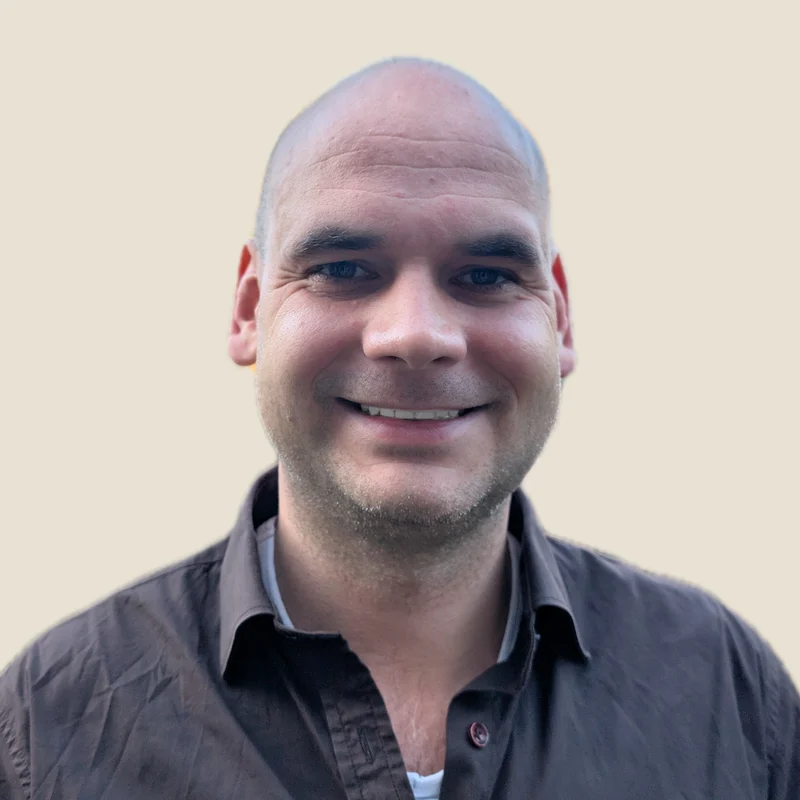
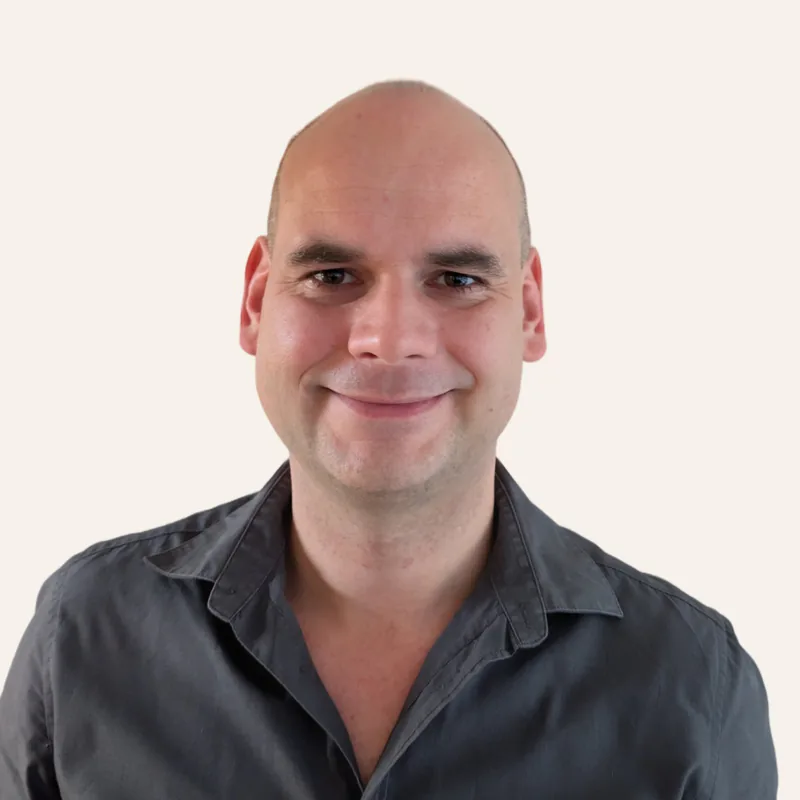
Change profilephoto

diff --git a/sites/solvalutions_com/views/approach.html b/sites/solvalutions_com/views/approach.html
@@ -74,12 +74,9 @@
 
                 <a href="https://robmeijerink.nl" target="_blank" rel="noopener" title="Rob Meijerink - Lead Engineer of Solvalutions" class="group inline-flex items-center gap-4 p-3 pr-6 rounded-xl border border-line transition-colors duration-300 hover:border-ice-dim hover:bg-ice/5">
                     <span class="block w-12 h-12 rounded-full bg-ink-raised overflow-hidden border border-line-strong shrink-0 transition-colors duration-300 group-hover:border-ice">
-                        <picture class="block w-full h-full">
-                            <source srcset="/assets/img/foto-rob-meijerink-solvalutions-avatar-320.webp" type="image/webp">
-                            <img src="/assets/img/foto-rob-meijerink-solvalutions-avatar-320.jpg"
+                        <img src="/assets/img/rob-meijerink-profielfoto.webp" width="192" height="192" loading="lazy" decoding="async"
                             alt="Rob Meijerink - Engineer and Developer of Solvalutions"
-                            class="w-full h-full object-cover -scale-x-100">
-                        </picture>
+                            class="w-full h-full object-cover">
                     </span>
                     <span class="block">
                         <span class="block text-white font-semibold text-sm transition-colors duration-300 group-hover:text-ice">Rob Meijerink</span>

diff --git a/sites/solvalutions_nl/setup.go b/sites/solvalutions_nl/setup.go
@@ -185,7 +185,7 @@ func about(c fiber.Ctx) error {
         "jobTitle": "Software architect",
         "description": "Software architect en developer, actief sinds 2015, gespecialiseerd in softwaremodernisering, systeemkoppelingen, automatisering en maatwerksoftware.",
         "url": "https://robmeijerink.nl",
-        "image": "` + url + `/assets/img/foto-rob-meijerink-solvalutions-avatar-320.jpg",
+        "image": "` + url + `/assets/img/rob-meijerink-portret.webp",
         "address": {
           "@type": "PostalAddress",
           "addressLocality": "Zutphen",
